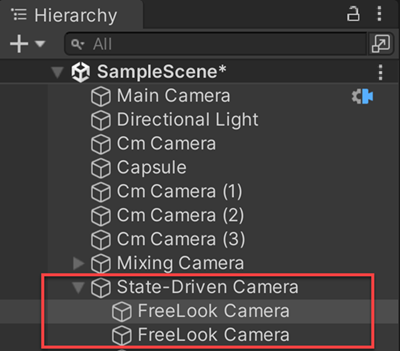
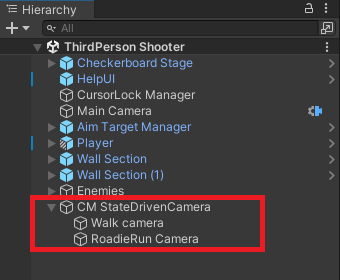
StateDrevenCamera respects child priorities

diff --git a/com.unity.cinemachine/Runtime/Behaviours/CinemachineStateDrivenCamera.cs b/com.unity.cinemachine/Runtime/Behaviours/CinemachineStateDrivenCamera.cs
@@ -87,12 +87,12 @@ namespace Unity.Cinemachine
         [SerializeField, HideInInspector, FormerlySerializedAs("m_Follow")] Transform m_LegacyFollow;
 
         float m_ActivationTime = 0;
-        Instruction m_ActiveInstruction;
+        int m_ActiveInstructionIndex;
         float m_PendingActivationTime = 0;
-        Instruction m_PendingInstruction;
-        Dictionary<int, int> m_InstructionDictionary;
+        int m_PendingInstructionIndex;
+        Dictionary<int, List<int>> m_InstructionDictionary;
         Dictionary<int, int> m_StateParentLookup;
-        readonly List<AnimatorClipInfo>  m_clipInfoList = new ();
+        readonly List<AnimatorClipInfo> m_ClipInfoList = new ();
 
         /// <inheritdoc />
         protected override void Reset()
@@ -160,7 +160,7 @@ namespace Unity.Cinemachine
         internal void ValidateInstructions()
         {
             Instructions ??= Array.Empty<Instruction>();
-            m_InstructionDictionary = new Dictionary<int, int>();
+            m_InstructionDictionary = new Dictionary<int, List<int>>();
             for (int i = 0; i < Instructions.Length; ++i)
             {
                 if (Instructions[i].Camera != null
@@ -168,7 +168,12 @@ namespace Unity.Cinemachine
                 {
                     Instructions[i].Camera = null;
                 }
-                m_InstructionDictionary[Instructions[i].FullHash] = i;
+                if (!m_InstructionDictionary.TryGetValue(Instructions[i].FullHash, out var list))
+                {
+                    list = new List<int>();
+                    m_InstructionDictionary[Instructions[i].FullHash] = list;
+                }
+                list.Add(i);
             }
 
             // Create the parent lookup
@@ -194,101 +199,107 @@ namespace Unity.Cinemachine
                 m_ActivationTime = 0;
                 return null;
             }
-            var defaultCam = children[0];
+            var fallbackCam = children[0];
             if (AnimatedTarget == null || !AnimatedTarget.gameObject.activeSelf
                 || AnimatedTarget.runtimeAnimatorController == null
                 || LayerIndex < 0 || !AnimatedTarget.hasBoundPlayables
                 || LayerIndex >= AnimatedTarget.layerCount)
             {
                 m_ActivationTime = 0;
-                return defaultCam;
+                return fallbackCam;
             }
 
-            // Get the current state
+            // quick sanity check, in case number of instructions changed
+            if (m_ActiveInstructionIndex < 0 || m_ActiveInstructionIndex >= Instructions.Length)
+            {
+                m_ActiveInstructionIndex = 0;
+                m_ActivationTime = 0;
+            }
+            if (!PreviousStateIsValid || m_PendingInstructionIndex < 0 || m_PendingInstructionIndex >= Instructions.Length)
+            {
+                m_PendingInstructionIndex = 0;
+                m_PendingActivationTime = 0;
+            }
+
+            // Get the current animation state
             int hash;
             if (AnimatedTarget.IsInTransition(LayerIndex))
             {
                 // Force "current" state to be the state we're transitioning to
                 var info = AnimatedTarget.GetNextAnimatorStateInfo(LayerIndex);
-                AnimatedTarget.GetNextAnimatorClipInfo(LayerIndex, m_clipInfoList);
-                hash = GetClipHash(info.fullPathHash, m_clipInfoList);
+                AnimatedTarget.GetNextAnimatorClipInfo(LayerIndex, m_ClipInfoList);
+                hash = GetClipHash(info.fullPathHash, m_ClipInfoList);
             }
             else
             {
                 var info = AnimatedTarget.GetCurrentAnimatorStateInfo(LayerIndex);
-                AnimatedTarget.GetCurrentAnimatorClipInfo(LayerIndex, m_clipInfoList);
-                hash = GetClipHash(info.fullPathHash, m_clipInfoList);
+                AnimatedTarget.GetCurrentAnimatorClipInfo(LayerIndex, m_ClipInfoList);
+                hash = GetClipHash(info.fullPathHash, m_ClipInfoList);
             }
 
-            // If we don't have an instruction for this state, find a suitable default
+            // If we don't have an instruction for this state, find a suitable default state
             while (hash != 0 && !m_InstructionDictionary.ContainsKey(hash))
                 hash = m_StateParentLookup.ContainsKey(hash) ? m_StateParentLookup[hash] : 0;
 
-            var now = CinemachineCore.CurrentTime;
-            if (m_ActivationTime != 0)
+            // Get the highest-priority active camera from the instruction list
+            int newInstrIndex = -1;
+            if (m_InstructionDictionary.ContainsKey(hash))
             {
-                // Is it active now?
-                if (m_ActiveInstruction.FullHash == hash)
-                {
-                    // Yes, cancel any pending
-                    m_PendingActivationTime = 0;
-                    return m_ActiveInstruction.Camera;
-                }
+                var instrList = m_InstructionDictionary[hash];
 
-                // Is it pending?
-                if (PreviousStateIsValid)
+                // Find the instruction whose camera is active and has the highest priority
+                int bestPriority = int.MinValue;
+                for (int i = 0; i < instrList.Count; ++i)
                 {
-                    if (m_PendingActivationTime != 0 && m_PendingInstruction.FullHash == hash)
+                    var index = instrList[i];
+                    var cam = Instructions[index].Camera;
+                    if (cam != null && cam.isActiveAndEnabled && cam.Priority.Value > bestPriority)
                     {
-                        // Has it been pending long enough, and are we allowed to switch away
-                        // from the active action?
-                        if ((now - m_PendingActivationTime) > m_PendingInstruction.ActivateAfter
-                            && ((now - m_ActivationTime) > m_ActiveInstruction.MinDuration
-                                || m_PendingInstruction.Camera.Priority.Value > m_ActiveInstruction.Camera.Priority.Value))
-                        {
-                            // Yes, activate it now
-                            m_ActiveInstruction = m_PendingInstruction;
-                            m_ActivationTime = now;
-                            m_PendingActivationTime = 0;
-                        }
-                        return m_ActiveInstruction.Camera;
+                        newInstrIndex = index;
+                        bestPriority = cam.Priority.Value;
                     }
                 }
             }
-            // Neither active nor pending.
-            m_PendingActivationTime = 0; // cancel the pending, if any
 
-            if (!m_InstructionDictionary.ContainsKey(hash))
+            // Process it.  If no new camera is desired, we just ignore this state
+            var now = CinemachineCore.CurrentTime;
+            if (newInstrIndex >= 0)
             {
-                // No defaults set, we just ignore this state
-                if (m_ActivationTime != 0)
-                    return m_ActiveInstruction.Camera;
-                return defaultCam;
-            }
-
-            // Can we activate it now?
-            var newInstr = Instructions[m_InstructionDictionary[hash]];
-            if (newInstr.Camera == null)
-                newInstr.Camera = defaultCam;
-            if (PreviousStateIsValid && m_ActivationTime > 0)
-            {
-                if (newInstr.ActivateAfter > 0
-                    || ((now - m_ActivationTime) < m_ActiveInstruction.MinDuration
-                        && newInstr.Camera.Priority.Value
-                        <= m_ActiveInstruction.Camera.Priority.Value))
+                // If it's neither active nor pending, we must take action
+                if (m_ActivationTime == 0)
                 {
-                    // Too early - make it pending
-                    m_PendingInstruction = newInstr;
+                    // No current camera, actibvate immediately
+                    m_ActiveInstructionIndex = newInstrIndex;
+                    m_ActivationTime = now;
+                    m_PendingActivationTime = 0;
+                }
+                else if (m_ActiveInstructionIndex != newInstrIndex
+                    && (m_PendingActivationTime == 0 || m_PendingInstructionIndex != newInstrIndex))
+                {
+                    // Make it pending
+                    m_PendingInstructionIndex = newInstrIndex;
                     m_PendingActivationTime = now;
-                    if (m_ActivationTime != 0)
-                        return m_ActiveInstruction.Camera;
-                    return defaultCam;
                 }
             }
-            // Activate now
-            m_ActiveInstruction = newInstr;
-            m_ActivationTime = now;
-            return m_ActiveInstruction.Camera;
+
+            // Process the pending instruction
+            if (m_PendingActivationTime != 0)
+            {
+                // Has it been pending long enough, and are we allowed to switch away
+                // from the active action?
+                if ((now - m_PendingActivationTime) > Instructions[m_PendingInstructionIndex].ActivateAfter
+                    && (now - m_ActivationTime) > Instructions[m_PendingInstructionIndex].MinDuration)
+                {
+                    // Yes, activate it now
+                    m_ActiveInstructionIndex = m_PendingInstructionIndex;
+                    m_ActivationTime = now;
+                    m_PendingActivationTime = 0;
+                }
+            }
+            
+            if (m_ActivationTime != 0)
+                return Instructions[m_ActiveInstructionIndex].Camera;
+            return fallbackCam;
         }
 
         int GetClipHash(int hash, List<AnimatorClipInfo> clips)

diff --git a/com.unity.cinemachine/Documentation~/CinemachineStateDrivenCamera.md b/com.unity.cinemachine/Documentation~/CinemachineStateDrivenCamera.md
@@ -1,14 +1,16 @@
 # Cinemachine State-Driven Camera
 
-The __Cinemachine State-Driven Camera__ component activates a child CinemachineCamera when an animation target changes states. For example, consider your avatar’s local-motion system and orbit camera. Your game feels more alive to the player when the camera shakes more as your avatar runs. When the avatar walks, blend for example to a CinemachineCamera with more damping.
+The __Cinemachine State-Driven Camera__ component allows you to associate CinemachineCameras with animation states.  When the state becomes active, the associated CinemachineCamera will also activate.  This allows you to define specific camera settings and behaviours for specific anmation states.  For example, you could have one camera for the Walk state, another for the Run state.  The state-Driven camera will blend between those cameras when the animation target changes states.
 
 ![State-Driven camera with three child CinemachineCameras (red)](images/CinemachineStateDrivenChildren.png)
 
 The animation target for a State-Driven Camera is a GameObject with an [Animator](https://docs.unity3d.com/Manual/class-Animator.html) component controlled by an [Animator Controller](https://docs.unity3d.com/Manual/class-AnimatorController.html).
 
-Assign normal __Tracking Targets__ to each child CinemachineCamera. If a child CinemachineCamera has no __Tracking Target__, a State-Driven camera can provide its own as a fallback.
+Assign normal __Tracking Targets__ to each child CinemachineCamera. If a child CinemachineCamera has no __Tracking Target__, the State-Driven camera can provide its own as a fallback.
 
-State-Driven Camera has a list that assigns child CinemachineCameras to animation states. You can define default and custom blends between the State-Driven children.
+State-Driven Camera has a list that assigns child CinemachineCameras to animation states. You can define default and custom blends between the State-Driven children.  You don't need to define cameras for all the states.  If you define a camera for the default state, it will be used for any state that doesn't have a specific camera defined.
+
+If multiple cameras are defined for any given state, the State-Driven camera will choose the one with the highest priority.  If multiple cameras for the same state have the same priority, the State-Driven camera will choose the one that appears earliest in the list.
 
 In the Inspector, the State-Driven camera lists its CinemachineCamera children. Use this list to add and delete child CinemachineCameras, and assign priorities.
 

diff --git a/com.unity.cinemachine/CHANGELOG.md b/com.unity.cinemachine/CHANGELOG.md
@@ -8,6 +8,7 @@ and this project adheres to [Semantic Versioning](http://semver.org/spec/v2.0.0.
 - Bugfix: Occasional precision issue when camera rotation is exactly 180 degress, causing roitational flickering.
 - Bugfix: Deceleration at the end of axis range was too aggressive.
 - Deoccluder accommodates camera radius in all modes.
+- StateDrivenCamera: child camera enabled status and priority are now taken into account when choosing the current active camera.
 
 
 ## [3.0.0-pre.7] - 2023-05-04
